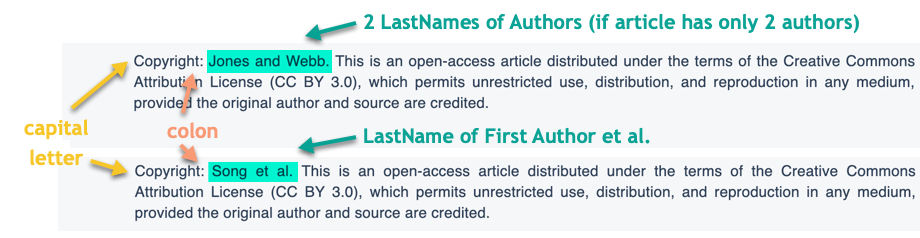
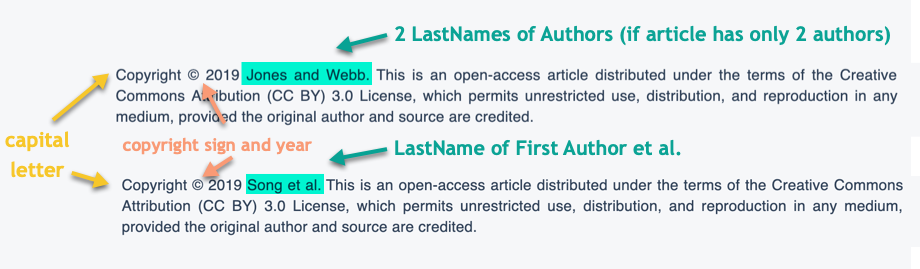
done

Changed region(s): [[0.0, 0.0588, 1.0, 0.9412]]

diff --git a/research_papers_html.rst b/research_papers_html.rst
@@ -20,7 +20,7 @@ HTML: All Papers (except Editorials)
 1.5. Check that following Latin terms are written in italics: *in vivo, in vitro, in utero, in situ*. 
 For other Latin terms either italics or :ref:`plain text<plain_text>` is acceptable.
 
-1.6. Check that species, protein and gene names are written in italics.
+1.6. Check that species and gene names are written in italics.
 
 
 |
@@ -37,37 +37,42 @@ For other Latin terms either italics or :ref:`plain text<plain_text>` is accepta
 
 2.4. Check that country and city names are NOT written in ALL CAPS (capital letters).
 
-2.5. USA affiliations: check that there is no comma between state and zip code. State must be positioned before zip code. Zip code must be present.
+2.5. China affiliations: zip code is allowed for both city and county/district. If zip code is present, it must be positioned before city/county/district and there must be no comma between city/county/district and zip code. Zip code for is optional for any of the elements (city/county/district).
 
-2.6. Non-USA affiliations: check that there is no comma between city and zip code. City must be positioned before zip code. Zip code is optional.
+.. image:: /_static/aff_text_zip_china.png
+   :alt: No comma between city/county/district and zip code
+
+2.6. USA affiliations: check that there is no comma between state and zip code. State must be positioned before zip code. Zip code must be present.
+
+2.7. Non-USA affiliations: check that there is no comma between city and zip code. City must be positioned before zip code. Zip code is optional.
 
 .. image:: /_static/aff_text_zip_state_city.png
    :alt: No comma between zip code and state (US) / city (non-US)
 
-2.7. Check that each affiliation number has only one complete affiliation. One affiliation – one number. |br|
+2.8. Check that each affiliation number has only one complete affiliation. One affiliation – one number. |br|
 One exclusion: affiliations of Chinese authors, where Key Laboratory combines different institutions. In that case one number can contains two affiliations.
 
-2.8. Occasionally affiliations can contain “Current/Present address:” title. If it is present, check that it has a separate affiliation number and that is followed by colon (:). |br| One address - one affiliation number. 
+2.9. Occasionally affiliations can contain “Current/Present address:” title. If it is present, check that it has a separate affiliation number and that is followed by colon (:). |br| One address - one affiliation number. 
 	
 All acceptable combinations of “Current/Present address” are depicted on the screenshot below: 
 
 .. image:: /_static/aff_current_address.png
    :alt: Current/Present address
 
-2.9. Check that only commas are used to separate parts of affiliations (i.e. department, institution, etc.).
+2.10. Check that only commas are used to separate parts of affiliations (i.e. department, institution, etc.).
 
 .. image:: /_static/aff_parts.png
    :alt: Affiliation format
 
-2.10. Check that first word of Author Notes starts with a capital letter.
+2.11. Check that first word of Author Notes starts with a capital letter.
 
-2.11. Check that Author Notes are preceded by a symbol (or group of symbols). |br|
+2.12. Check that Author Notes are preceded by a symbol (or group of symbols). |br|
 Most used symbols are: \*, #, †
 
 .. image:: /_static/aff_auth_note.png
    :alt: Author Notes
 
-2.12. Check that Author Notes symbol is linked to author(s) in the author list. 
+2.13. Check that Author Notes symbol is linked to author(s) in the author list. 
 
 .. image:: /_static/aff_auth_note_symbol.png
    :alt: Author Notes Symbol
@@ -86,16 +91,16 @@ Most used symbols are: \*, #, †
 
 3.4. Check that email line is located below the Author FullName nad does not have any punctuation marks at the end.
 
-3.5. Check that multiple Author + Email pairs are divided by a blank link.
+3.5. Check that multiple Author + Email pairs are divided by a blank line.
 
 .. image:: /_static/corr_format.png
    :alt: Correspondence format
 
-3.7. Check that Author FullName does NOT contain titles and/or degrees (e.g. Dr., Ph.D., M.D., etc.)
+3.6. Check that Author FullName does NOT contain titles and/or degrees (e.g. Dr., Ph.D., M.D., etc.)
 
-3.8. Check that email address is hyperlinked
+3.7. Check that email address is hyperlinked
 
-3.9. Check that Author FullName matches corresponding name in the author list (including the middle initials if any)
+3.8. Check that Author FullName matches corresponding name in the author list (including the middle initials if any)
 
 .. image:: /_static/corr_auth_mtch.png
    :alt: Correspondence author match
@@ -142,7 +147,7 @@ Most used symbols are: \*, #, †
 ------------
 6.1. Check that copyright section has a title "Copyright ©" (starts with capital letter and followed by copyright symbol (©))
 
-6.2. Check that copyright sting starts with:
+6.2. Check that copyright sting starts with a YEAR followed by:
 
 :sample:`Last name of first author et al.`
 
@@ -152,7 +157,7 @@ Most used symbols are: \*, #, †
 
 and followed by:
 
-:sample:`This is an open-access article distributed under the terms of the Creative Commons Attribution License (CC BY 3.0), which permits unrestricted use, distribution, and reproduction in any medium, provided the original author and source are credited.`
+:sample:`This is an open-access article distributed under the terms of the Creative Commons Attribution (CC BY) 3.0 License, which permits unrestricted use, distribution, and reproduction in any medium, provided the original author and source are credited.`
 
 
 .. image:: /_static/cpright_format.png
@@ -176,6 +181,7 @@ and followed by:
 8. Callouts
 -----------
 8.1. Check whether there is one callout for each of the references in the article text. Callout can be a number, set of numbers divided by comma or a range of numbers separated by en dash, wrapped in sqare brakets. Callout should be hyperlinked to the corresponding reference. |br|
+Callouts can be found in text, figures and tables. |br|
 Here are exmples of callouts: [1] [2, 3, 4] [5-7] [1, 3, 7, 8-10]. See also screenshot below.
 
 .. image:: /_static/callouts_format.png
@@ -184,6 +190,8 @@ Here are exmples of callouts: [1] [2, 3, 4] [5-7] [1, 3, 7, 8-10]. See also scre
 8.2. Check that callout number for each of the references is present in the text or is covered in the range of numbers. I.e. in the range of [1-3] reference 2 is not present in the text, but covered in the range. This is acceptable case.
 
 8.3. Check that there are no callouts for non-existing references (i.e. there is a callout, but there is no reference).
+
+8.4. Check that there are no references for which callouts are missing (i.e. there is a reference, but there is no callout for it).
 
 
 |
@@ -286,12 +294,11 @@ In rare cases reference can contain just a first page number. This is also allow
 9.3.2. Check that all elements of citation-data are present in the correct format (see above).
 
 9.3.3. There can be references to the articles in which have been published "ahead of print". The format of citation data for such articles is as follows:
-|span_format_start| JournalTitle. year. DOI [Epub ahead of print] [PubMed] |span_end|
+|span_format_start| JournalTitle. year. [Epub ahead of print]. DOI [PubMed] |span_end|
 
 - Check that there is a dot (.) after Year
-
-- Check that there is an [Epub ahead of print] note after DOI.
-
+- Check that there is a dot (.) after [Epub ahead of print]
+- Check that [Epub ahead of print] goes after Year and before DOI.
 
 .. image:: /_static/ref_ahead_of_print.png
    :alt: Ahead of Print
@@ -315,17 +322,17 @@ If you find duplicate references, please contact production team and ask to corr
    | 34. Yang XM, Yang H. [Expression of high mobility group box-1 in the lung tissue and serum of patients with pulmonary tuberculosis]. Zhonghua Jie He He Hu Xi Za Zhi. 2013; 36:497-500.
 
 
-9.4.3. Check for references containing journal title in English and original language (e.g. "International journal of cancer" and "Journal international du cancer"). Remove title in original language and leave English version.
+9.4.3. Check for references containing journal title in English and original language (e.g. "International journal of cancer" and "Journal international du cancer"). Remove title in original language and leave English version. If there is just a "foreign language" version present, it is OK to leave that version (no need to find Eglish one).
 
-9.4.5 Check for extra information to the references (i.e. in addition to "standard" information). Remove all extra information.
+9.4.4. Check for extra information to the references (i.e. in addition to "standard" information). Remove all extra information.
    
    | `Example:`
    | ":official publication of the society of…"
 
 
-9.4.6 Remove any instances of “[Internet]”, "[pii]" and empty (blank) doi.
+9.4.5. Remove any instances of “[Internet]”, "[pii]" and empty (blank) doi.
 
-9.4.7. Remove “PMID” and “PMCID” details, if present in any reference.
+9.4.6. Remove “PMID” and “PMCID” details, if present in any reference.
 
 
 |

diff --git a/research_papers_pdf.rst b/research_papers_pdf.rst
@@ -98,9 +98,30 @@ No PDF-specific checks
 
 6. Copyright
 ------------
-No PDF-specific checks
 
-`+ HTML checks`
+6.1. Check that copyright section has a title "Copyright:" (starts with capital letter and followed by a colon (:))
+
+6.2. Check that "Copyright:" is formatted in black and bold font
+
+6.3. Check that copyright sting starts with:
+
+:sample:`Last name of first author et al.`
+
+**or** 
+
+:sample:`two last names divided by "and"` (if there are only two authors in the article)
+
+and followed by:
+
+:sample:`This is an open-access article distributed under the terms of the Creative Commons Attribution License
+(CC BY 3.0), which permits unrestricted use, distribution, and reproduction in any medium, provided the original author and
+source are credited.`
+
+.. image:: /_static/pdf_cpright_format.png
+   :alt: PDF Copyright format 
+
+6.4. Check that Last name of first author matches last name of the first author in the Author List. In case of 2 authors, check that last names match names in the Author List.
+
 
 
 |
